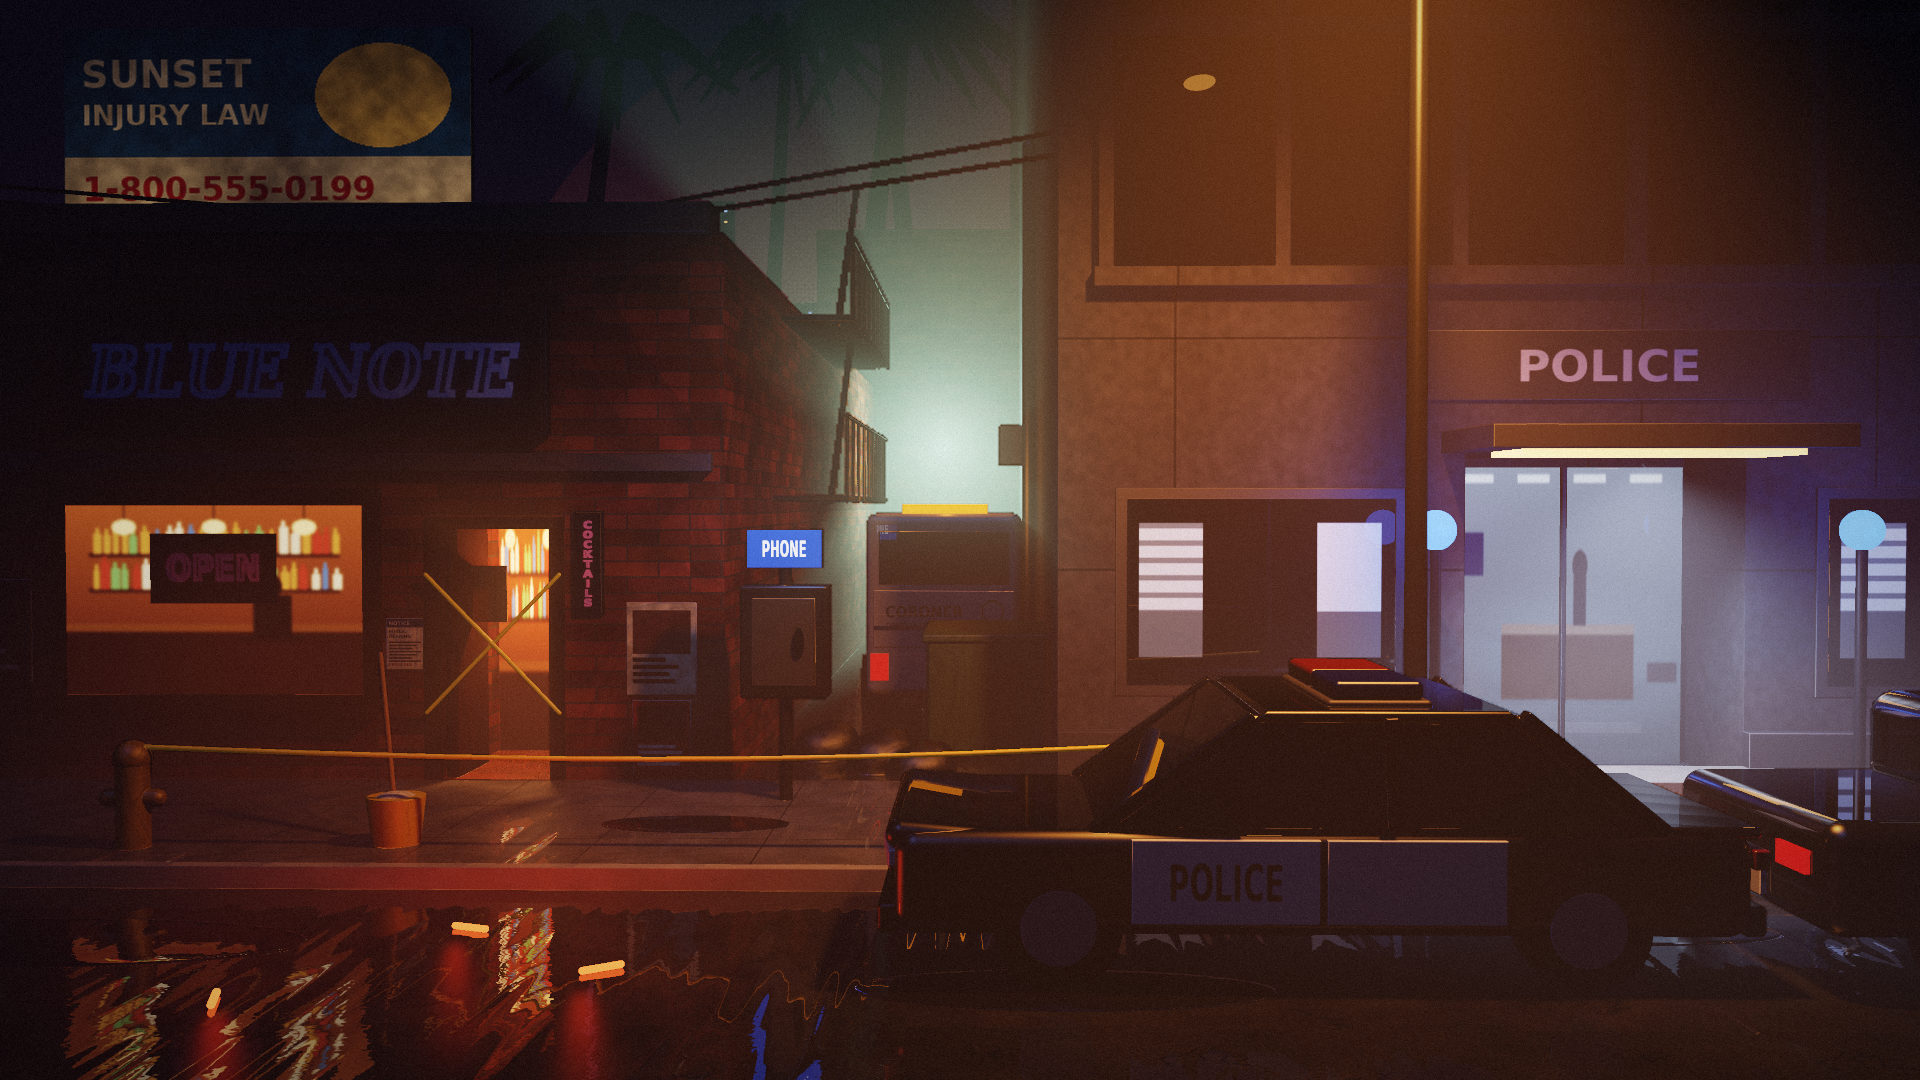
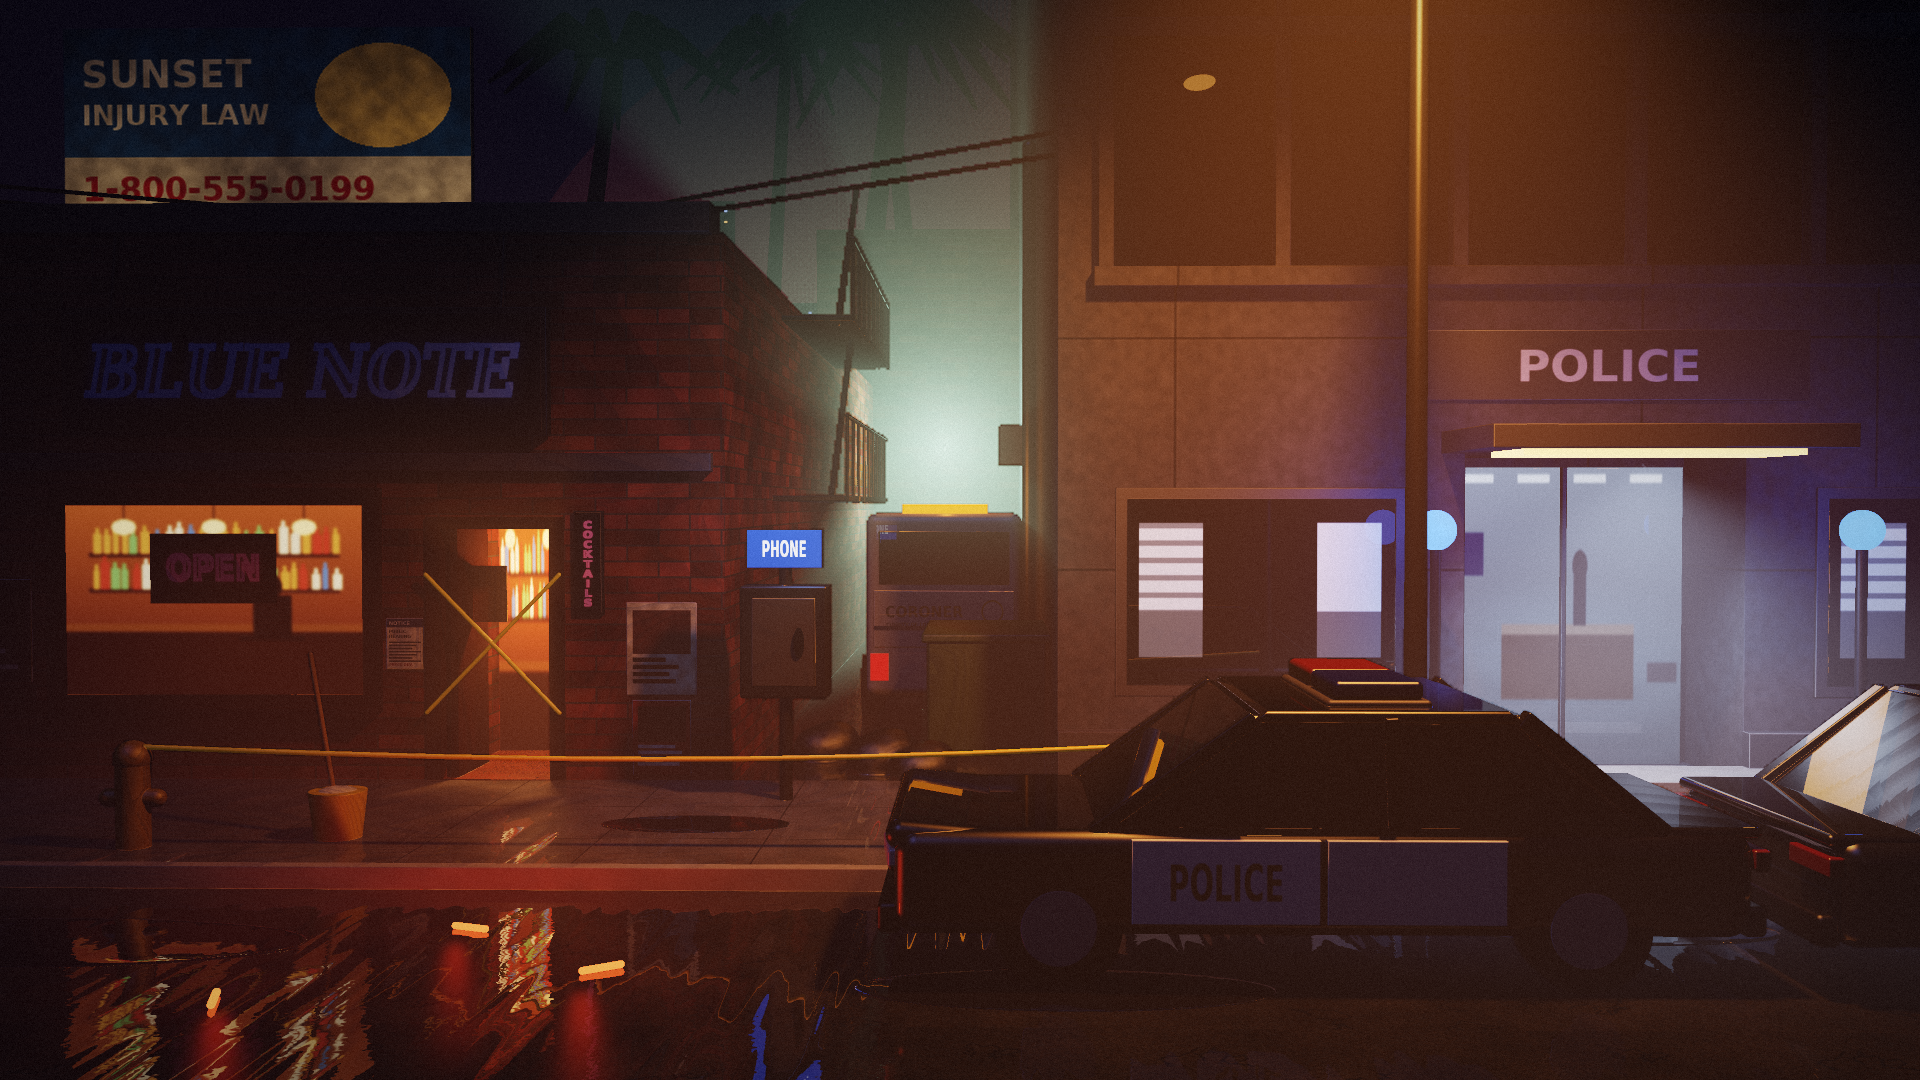
Title background: re-render with the shared sedan for Ray's car; clear inherited faces so the title render works

diff --git a/tools/r3/title.py b/tools/r3/title.py
@@ -11,7 +11,7 @@ EMPTY = {'park', 'teo', 'mara'}
 
 def build(hide=()):
     S, cam, env, meta = street.build(set(hide) | EMPTY, crime=True)
-    meta = dict(meta, room='title', hotspots={}, hotspot_order=[], hotspot_shapes={}, occluders={}, obstacles=[],
+    meta = dict(meta, room='title', hotspots={}, faces={}, hotspot_order=[], hotspot_shapes={}, occluders={}, obstacles=[],
                 overlay_bases={}, overlays=['bar_red', 'bar_blue'], exclusive_overlays=['bar_red', 'bar_blue'],
                 screen={'walk': [(0, 0), (1920, 0), (1920, 1080)], 'spawns': {}, 'scale': ((0, 1.0), (1080, 1.0))})
     return S, cam, env, meta
